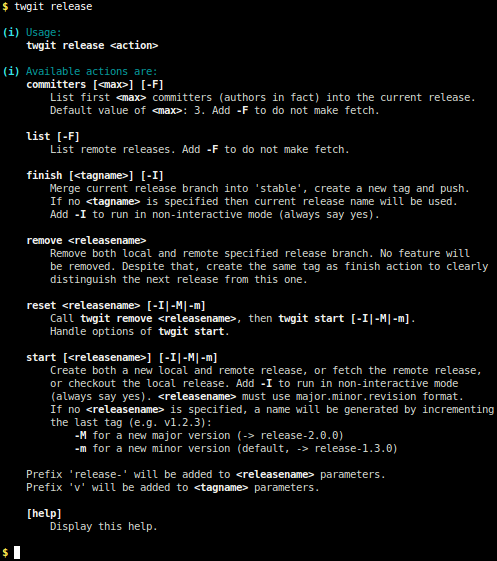
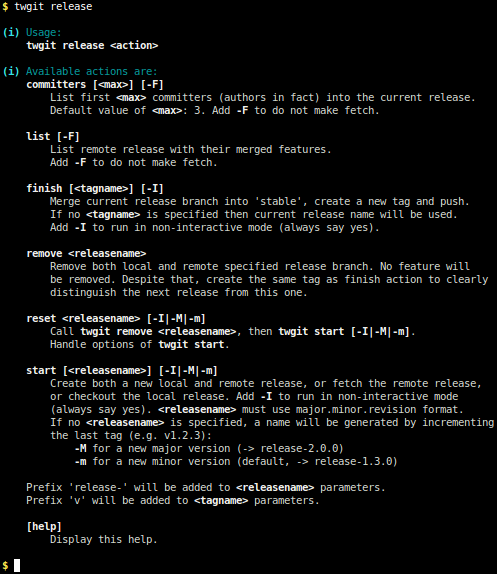
Update CHANGELOG and screenshots.

diff --git a/CHANGELOG.md b/CHANGELOG.md
@@ -1,7 +1,7 @@
 ChangeLog
 =========
 
-## Version 1.11.0 (2013-02-??)
+## Version 1.11.0 (2013-03-04)
 
 Features:
 
